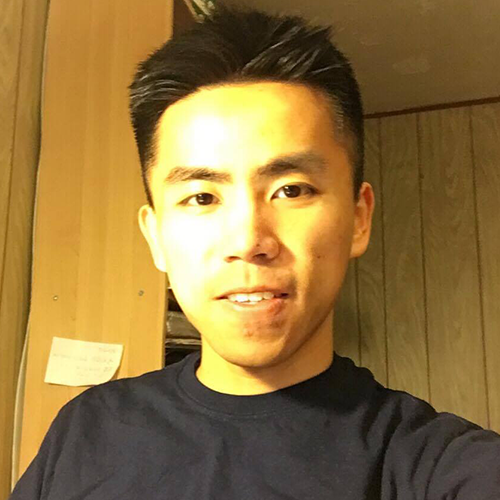
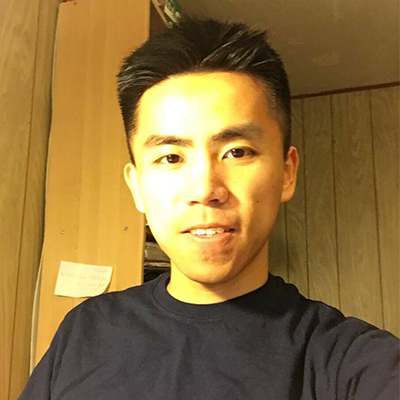
commit

diff --git a/index.html b/index.html
@@ -46,8 +46,8 @@
 					<img src="images/Raymond.png"/>
 				</div>
 				<div class="profile-caption">
-					<p>HELLO, I'M RAYMOND</p>
-					<p>I LOVE CREATING WEBSITES</p>
+					<p>HI, I'M RAYMOND WU.</p>
+					<p>I LOVE CREATING APPLICATIONS.</p>
 				</div>
 			</div>
 
@@ -58,8 +58,11 @@
 						<p>ABOUT</p>
 					</div>
 
-					<div>
-					</div>
+					<a href="images/ChihYung_Wu_resume.pdf" target="_blank" class="resume-div-anchor">
+						<div class="resume-div">
+							<div>My Resume</div>
+						</div>
+					</a>
 
 					<div class="section-div-content">
 						<div class="section-div-content-subdiv">
@@ -71,9 +74,7 @@
 							<div class="section-div-content-subdiv-bar-decorator"></div>
 
 							<div class="section-div-content-subdiv-content">							
-								I have more than 4 years of experience of working a web developer and application developer. In addition, I also have abundant experience of working
-								with various graphic design tools such as Adobe Photoshop, Adobe Illustrator, and Adobe InDesign, to create 
-								many material for both web development and advertising for businesses.
+								I am a Computer Science and Computer Information System student, and have more than 4 years equivalent of experience of working as a web and application developer. Meanwhile, I have an unquenchable desire for learning new technologies. During my past and current work, I am always involved in tasks, which require me to explore new techniques and technologies. In addition, I have a can-do attitude that leads me to my reputation of always being able to complete the work given well and creatively.
 							</div>
 
 							<div class="section-div-content-subdiv-bar-decorator">
@@ -89,9 +90,7 @@
 							<div class="section-div-content-subdiv-bar-decorator"></div>
 
 							<div class="section-div-content-subdiv-content">
-								My expertise is in both Computer Science and Computer Information System. I not only had rich 
-								experience in many projects using different programming languages such as Java, PHP, node.js, Ruby, and python,
-								but also different technologies such as Amazon AWS, IOS, Android, Linux System Administration. 
+								As a developer having strong interest in web and application development, in the past I had devoted significant amount of time on developing various web application projects using various languages and technologies. I have rich experience of working on different projects using varius languages, such as PHP, Java, and Python, etc. In addition to languages, I am also experienced in various technologies, such as Amazon Web Services, GitHub, Apache2, Linux, Redis, and Docker, etc.
 							</div>
 
 							<div class="section-div-content-subdiv-bar-decorator"></div>
@@ -107,8 +106,8 @@
 
 							<div class="section-div-content-subdiv-content">
 								I am currently working as a software developer in a digital marketing firm in Newton, MA. During the work, I am
-								heavily involved in web devlopment projects for different clients and also develop digital marketing software for the company.
-								Meanwhile, I am also involved in some research projects at BU regarding to web application development and machine learning. 
+								heavily involved in web and application devlopment projects for different clients and for the company. For instance, I was in charge of creating an application used as a CMS for landing pages creation and analysis for the company. In addition to the development work, every now and then I was also involved in the tasks of exploring various new technologies and configure them so that they can be taken advantages by the company.
+								In the past, I was also involved in research projects at BU regarding to web application development and machine learning. For example, application of machine learning in analysis of malicious and benign Android applications.
 							</div>
 							<div class="section-div-content-subdiv-bar-decorator"></div>
 						</div>
@@ -138,7 +137,7 @@
 							</div>
 							
 							<div class="website-img-div">
-								<a href="http://bookswap.space/home"><img src="images/websites/bookswap.png" /></a>
+								<a href="https://landing.infusemedia.com/" target="_blank"><img src="images/websites/infusemedia_landing_page_platform.png" /></a>
 							</div>
 							<div class="website-img-div-bg">
 							</div>
@@ -149,7 +148,7 @@
 								<div class="website-img-div-overlay-btn">Click Me</div>
 							</div>
 							<div class="website-img-div">
-								<a href="http://connoisseurs.space/"><img src="images/websites/connoisseurs.png"/></a>
+								<a href="http://108.7.239.77:8088/wu/database2/" target="_blank"><img src="images/websites/infuse-media.png" /></a>
 							</div>
 							<div class="website-img-div-bg">
 							</div>
@@ -160,7 +159,44 @@
 								<div class="website-img-div-overlay-btn">Click Me</div>
 							</div>
 							<div class="website-img-div">
-								<a href="http://www.cicdofboston.com/"><img src="images/websites/cicd.png"/></a>
+								<a href="http://infusemedia.com/" target="_blank"><img src="images/websites/infuse-website.png" /></a>
+							</div>
+							<div class="website-img-div-bg">
+							</div>
+						</div>
+					</div>
+
+					<div class="section-div-content">
+						<div class="section-div-content-subdiv">
+
+							<div class="website-img-div-overlay">
+								<div class="website-img-div-overlay-btn">Click Me</div>
+							</div>
+							
+							<div class="website-img-div">
+								<a href="http://bookswap.space/home" target="_blank"><img src="images/websites/bookswap.png" /></a>
+							</div>
+							<div class="website-img-div-bg">
+							</div>
+						</div>
+
+						<div class="section-div-content-subdiv">
+							<div class="website-img-div-overlay">
+								<div class="website-img-div-overlay-btn">Click Me</div>
+							</div>
+							<div class="website-img-div">
+								<a href="http://connoisseurs.space/" target="_blank"><img src="images/websites/connoisseurs.png"/></a>
+							</div>
+							<div class="website-img-div-bg">
+							</div>
+						</div>
+
+						<div class="section-div-content-subdiv">
+							<div class="website-img-div-overlay">
+								<div class="website-img-div-overlay-btn">Click Me</div>
+							</div>
+							<div class="website-img-div">
+								<a href="http://www.cicdofboston.com/" target="_blank"><img src="images/websites/cicd.png"/></a>
 							</div>
 							<div class="website-img-div-bg">
 							</div>
@@ -173,7 +209,7 @@
 								<div class="website-img-div-overlay-btn">Click Me</div>
 							</div>
 							<div class="website-img-div">
-								<a href="http://128.197.103.76/"><img src="images/websites/BU_MET_research.png" /></a>
+								<a href="http://128.197.103.76/androweb/" target="_blank"><img src="images/websites/BU_MET_research.png" /></a>
 							</div>
 							<div class="website-img-div-bg">
 							</div>
@@ -184,7 +220,7 @@
 								<div class="website-img-div-overlay-btn">Click Me</div>
 							</div>
 							<div class="website-img-div">
-								<a href="http://fu-xin-tang.com/"><img src="images/websites/fu-xin-tang.png"/></a>
+								<a href="http://fu-xin-tang.com/" target="_blank"><img src="images/websites/fu-xin-tang.png"/></a>
 							</div>
 							<div class="website-img-div-bg">
 							</div>
@@ -195,31 +231,7 @@
 								<div class="website-img-div-overlay-btn">Click Me</div>
 							</div>
 							<div class="website-img-div">
-								<a href="https://enigmatic-temple-97730.herokuapp.com"><img src="images/websites/samarth_bais_site.png"/></a>
-							</div>
-							<div class="website-img-div-bg">
-							</div>
-						</div>
-					</div>
-
-					<div class="section-div-content">
-						<div class="section-div-content-subdiv">
-							<div class="website-img-div-overlay">
-								<div class="website-img-div-overlay-btn">Click Me</div>
-							</div>
-							<div class="website-img-div">
-								<a href="http://108.7.239.77:8088/wu/database2/"><img src="images/websites/infuse-media.png" /></a>
-							</div>
-							<div class="website-img-div-bg">
-							</div>
-						</div>
-
-						<div class="section-div-content-subdiv">
-							<div class="website-img-div-overlay">
-								<div class="website-img-div-overlay-btn">Click Me</div>
-							</div>
-							<div class="website-img-div">
-								<a href="http://infusemedia.com/"><img src="images/websites/infuse-website.png" /></a>
+								<a href="https://enigmatic-temple-97730.herokuapp.com" target="_blank"><img src="images/websites/samarth_bais_site.png"/></a>
 							</div>
 							<div class="website-img-div-bg">
 							</div>

diff --git a/style.css b/style.css
@@ -82,15 +82,15 @@ div.profile-img-div {
 }
 
 div.profile-img-inner-div {
-	width: 300px;
-	height: 300px;
+	width: 400px;
+	height: 400px;
 	border-radius: 250px;
 	overflow: hidden;
 	margin: 0 auto;
 }
 
 div.profile-img-inner-div img {
-	width: 500px;
+	width: 400px;
 }
 
 
@@ -292,6 +292,28 @@ div.section-div-subtitle {
 
 }
 
+a.resume-div-anchor {
+	text-decoration: none;
+}
+
+div.resume-div {
+	border: 1px solid #e8634e;
+	color: #e8634e;
+	padding: 10px 15px;
+	width: 120px;
+	text-align: center;
+	cursor: pointer;
+	margin: 0 auto;
+	margin-bottom: 3em;
+	font-size: 1.2em;
+}
+
+div.resume-div:hover {
+	color: white;
+	background-color: #e8634e;
+	transition: all 0.2s ease 0s;
+}
+
 div.section-div-subtitle span {
 	margin-right: 5px;
 	margin-left: 5px;
@@ -402,7 +424,7 @@ div.footer-title {
 	top:1.3em;
 	display: block;
 	position: absolute;
-	left: 42.5%;
+	left: 42%;
 	font-family: 'Roboto Slab', serif;
 	color: #e5e2d3;
 	background-color: #e8634e;
